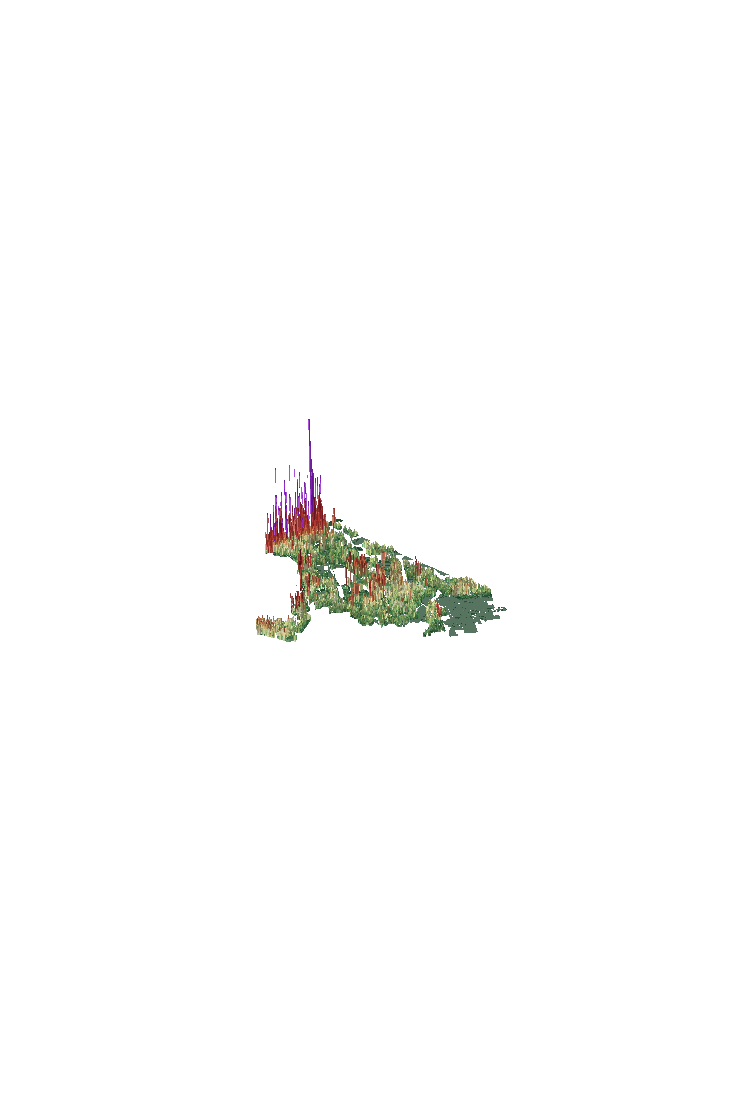
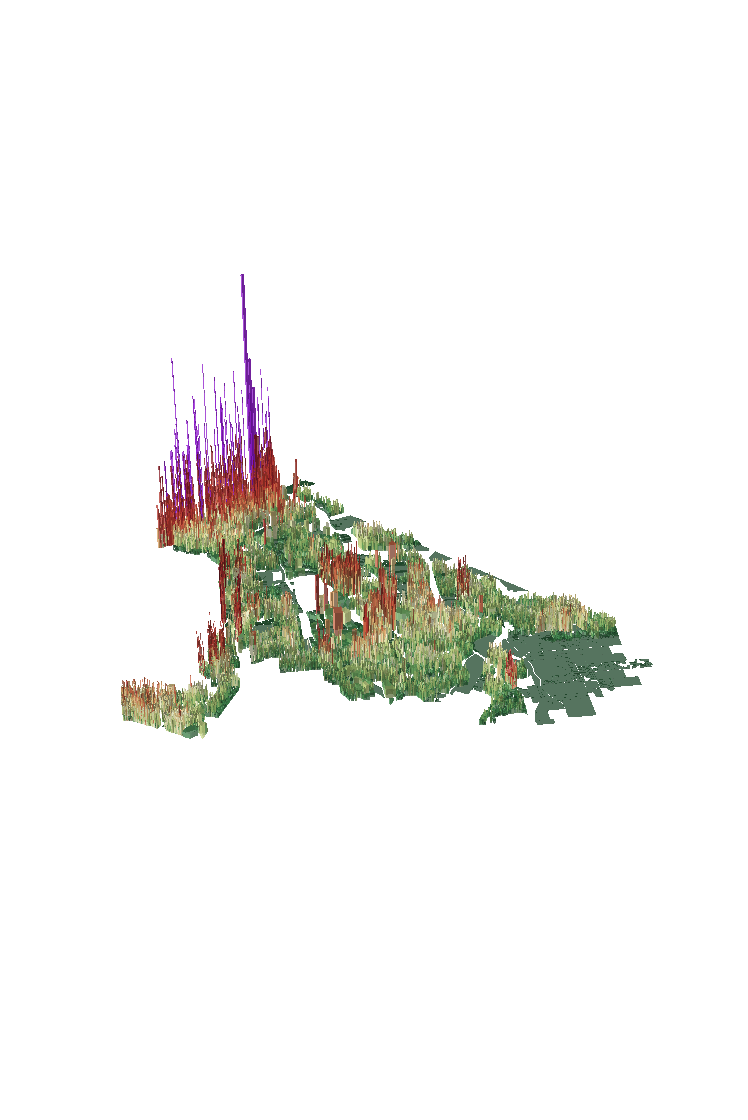
feat(viz): pointer cursor pre-ready and tighter mobile zoom
Two polish items:

1. Cursor during pre-ready. The map container sat at opacity 0 while
   the canvas underneath showed MapLibre's grab cursor — confusing on
   desktop because users saw a drag affordance for a map that wasn't
   actually there yet. Force cursor: pointer on .mapRoot and its canvas
   child until the .ready class lands; then defer to MapLibre.

2. Mobile zoom was one level too pulled-back. Nudge the stepped offsets
   closer:
     <  480px:  -0.8  (was -1.8)
     <  768px:  -0.6  (was -1.2)
     < 1024px:  -0.3  (was -0.5)
   Phone viewport still fits the full dataset without cutting off.

Mobile and desktop posters regenerated to match the new cameras.

Changed region(s): [[0.1537, 0.25, 0.861, 0.6562]]

diff --git a/src/components/viz/choropleth-3d-maplibre.tsx b/src/components/viz/choropleth-3d-maplibre.tsx
@@ -143,9 +143,9 @@ export default function Choropleth3DMaplibre({ artifact }: Props) {
     // the choropleth out of frame. Shaving zoom lets the full dataset fit.
     const viewportWidth = window.innerWidth;
     const zoomOffset =
-      viewportWidth < 480 ? -1.8 :
-      viewportWidth < 768 ? -1.2 :
-      viewportWidth < 1024 ? -0.5 :
+      viewportWidth < 480 ? -0.8 :
+      viewportWidth < 768 ? -0.6 :
+      viewportWidth < 1024 ? -0.3 :
       0;
     const initialZoom = (camera.zoom ?? 11) + zoomOffset;
 

diff --git a/src/components/viz/choropleth-3d-maplibre.module.css b/src/components/viz/choropleth-3d-maplibre.module.css
@@ -7,11 +7,17 @@
   overflow: hidden;
   background: #ffffff;
   opacity: 0;
+  cursor: pointer;
   transition: opacity 400ms ease-out;
+}
+
+.mapRoot:not(.ready) canvas {
+  cursor: pointer !important;
 }
 
 .mapRoot.ready {
   opacity: 1;
+  cursor: auto;
 }
 
 .mapRoot canvas {
